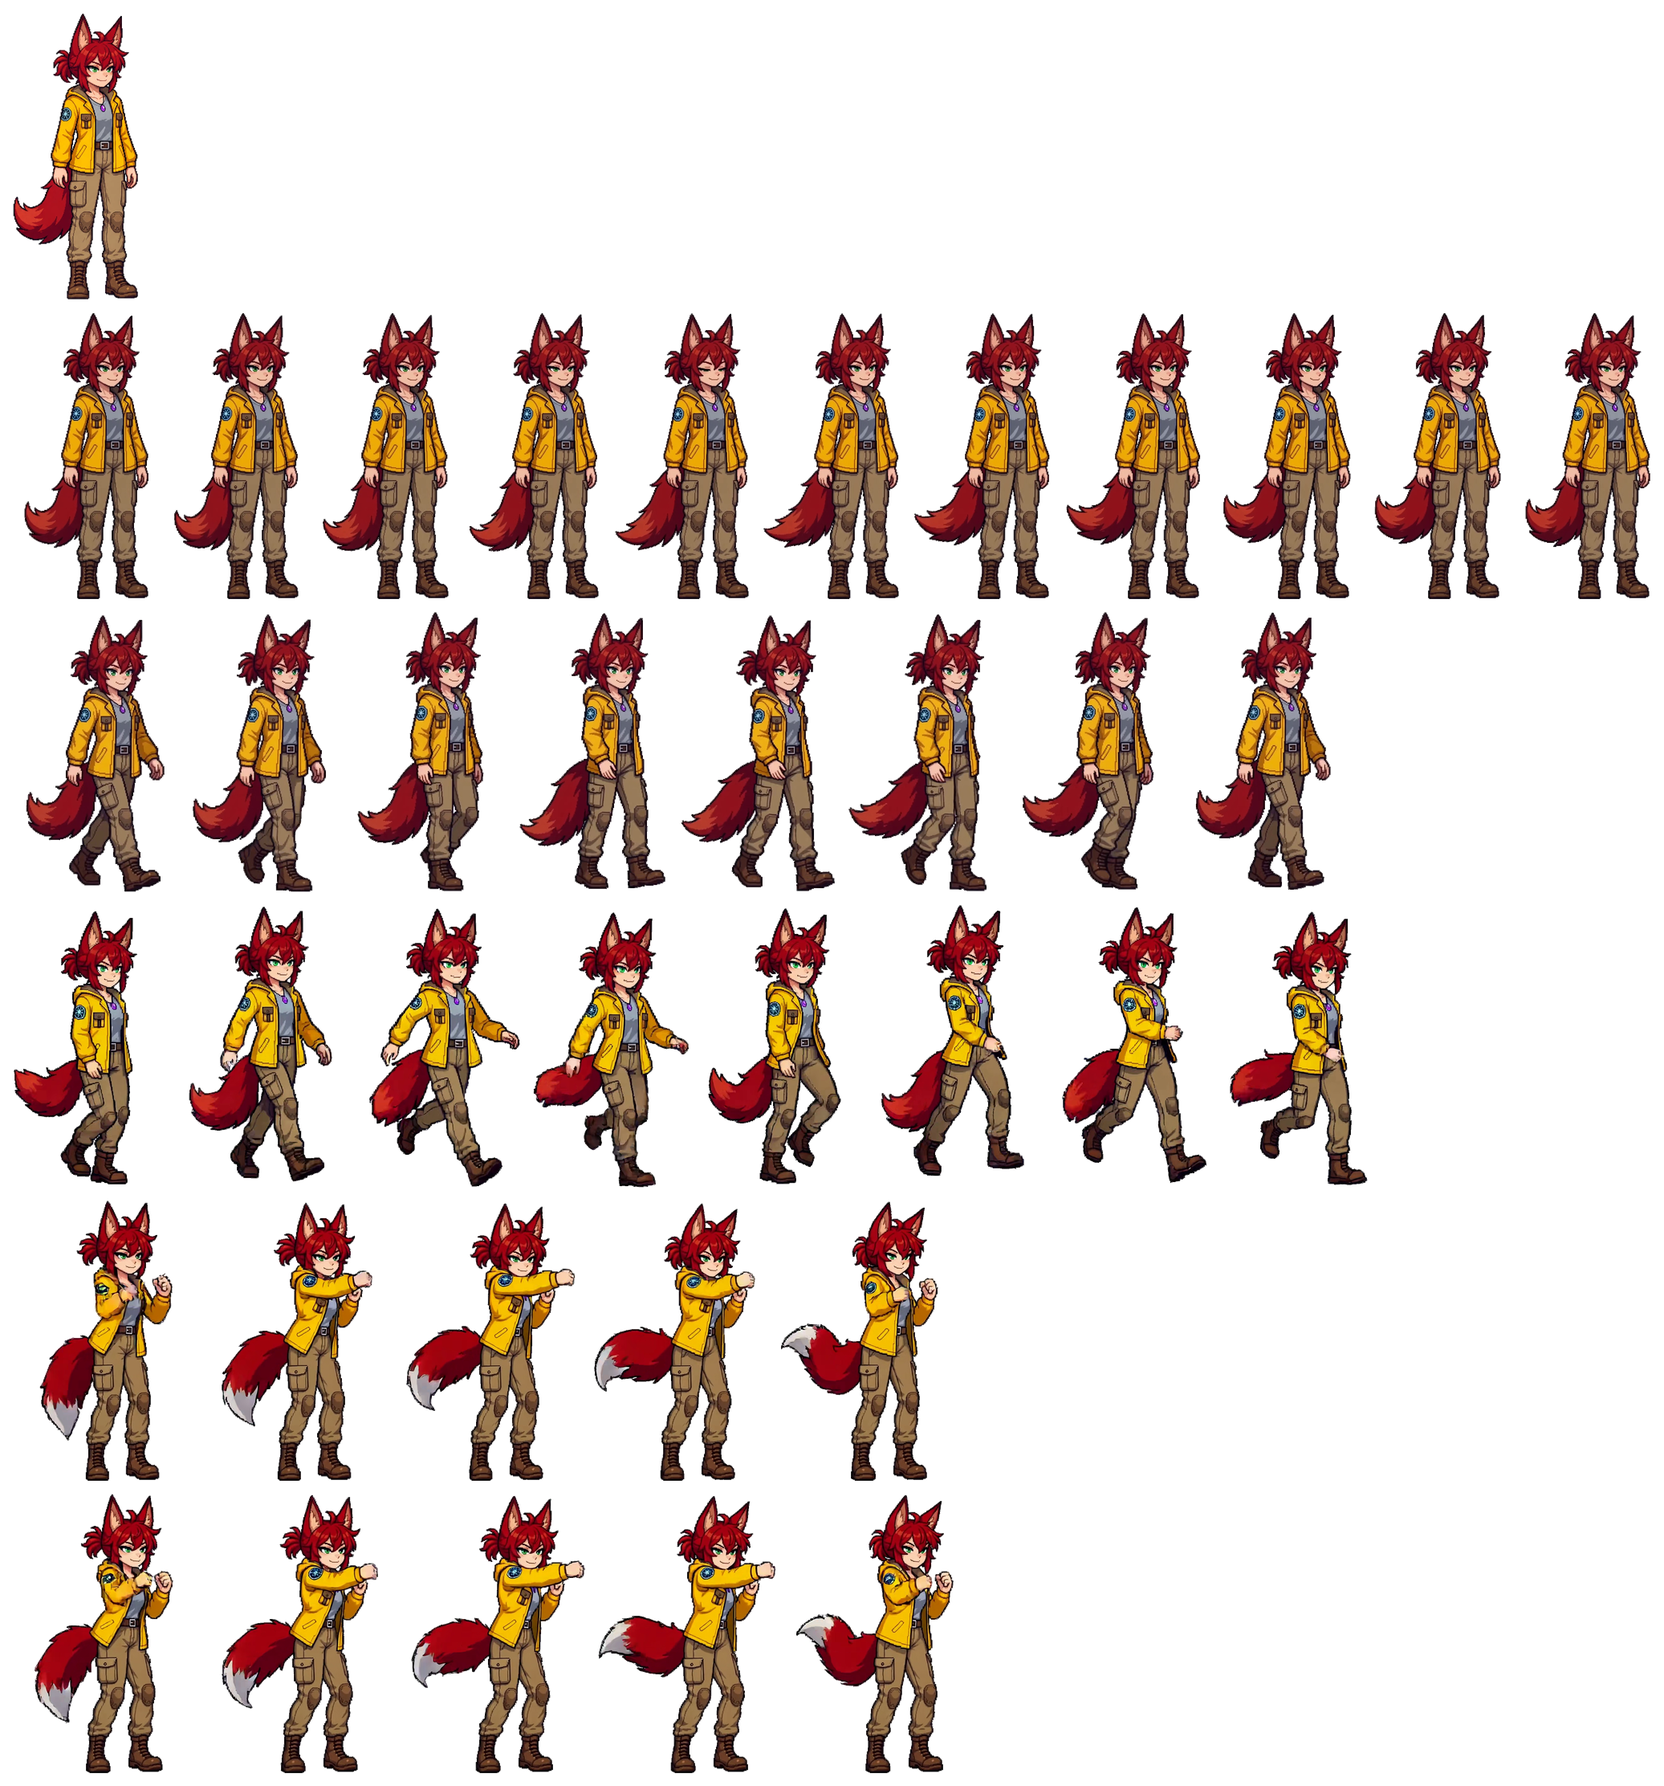
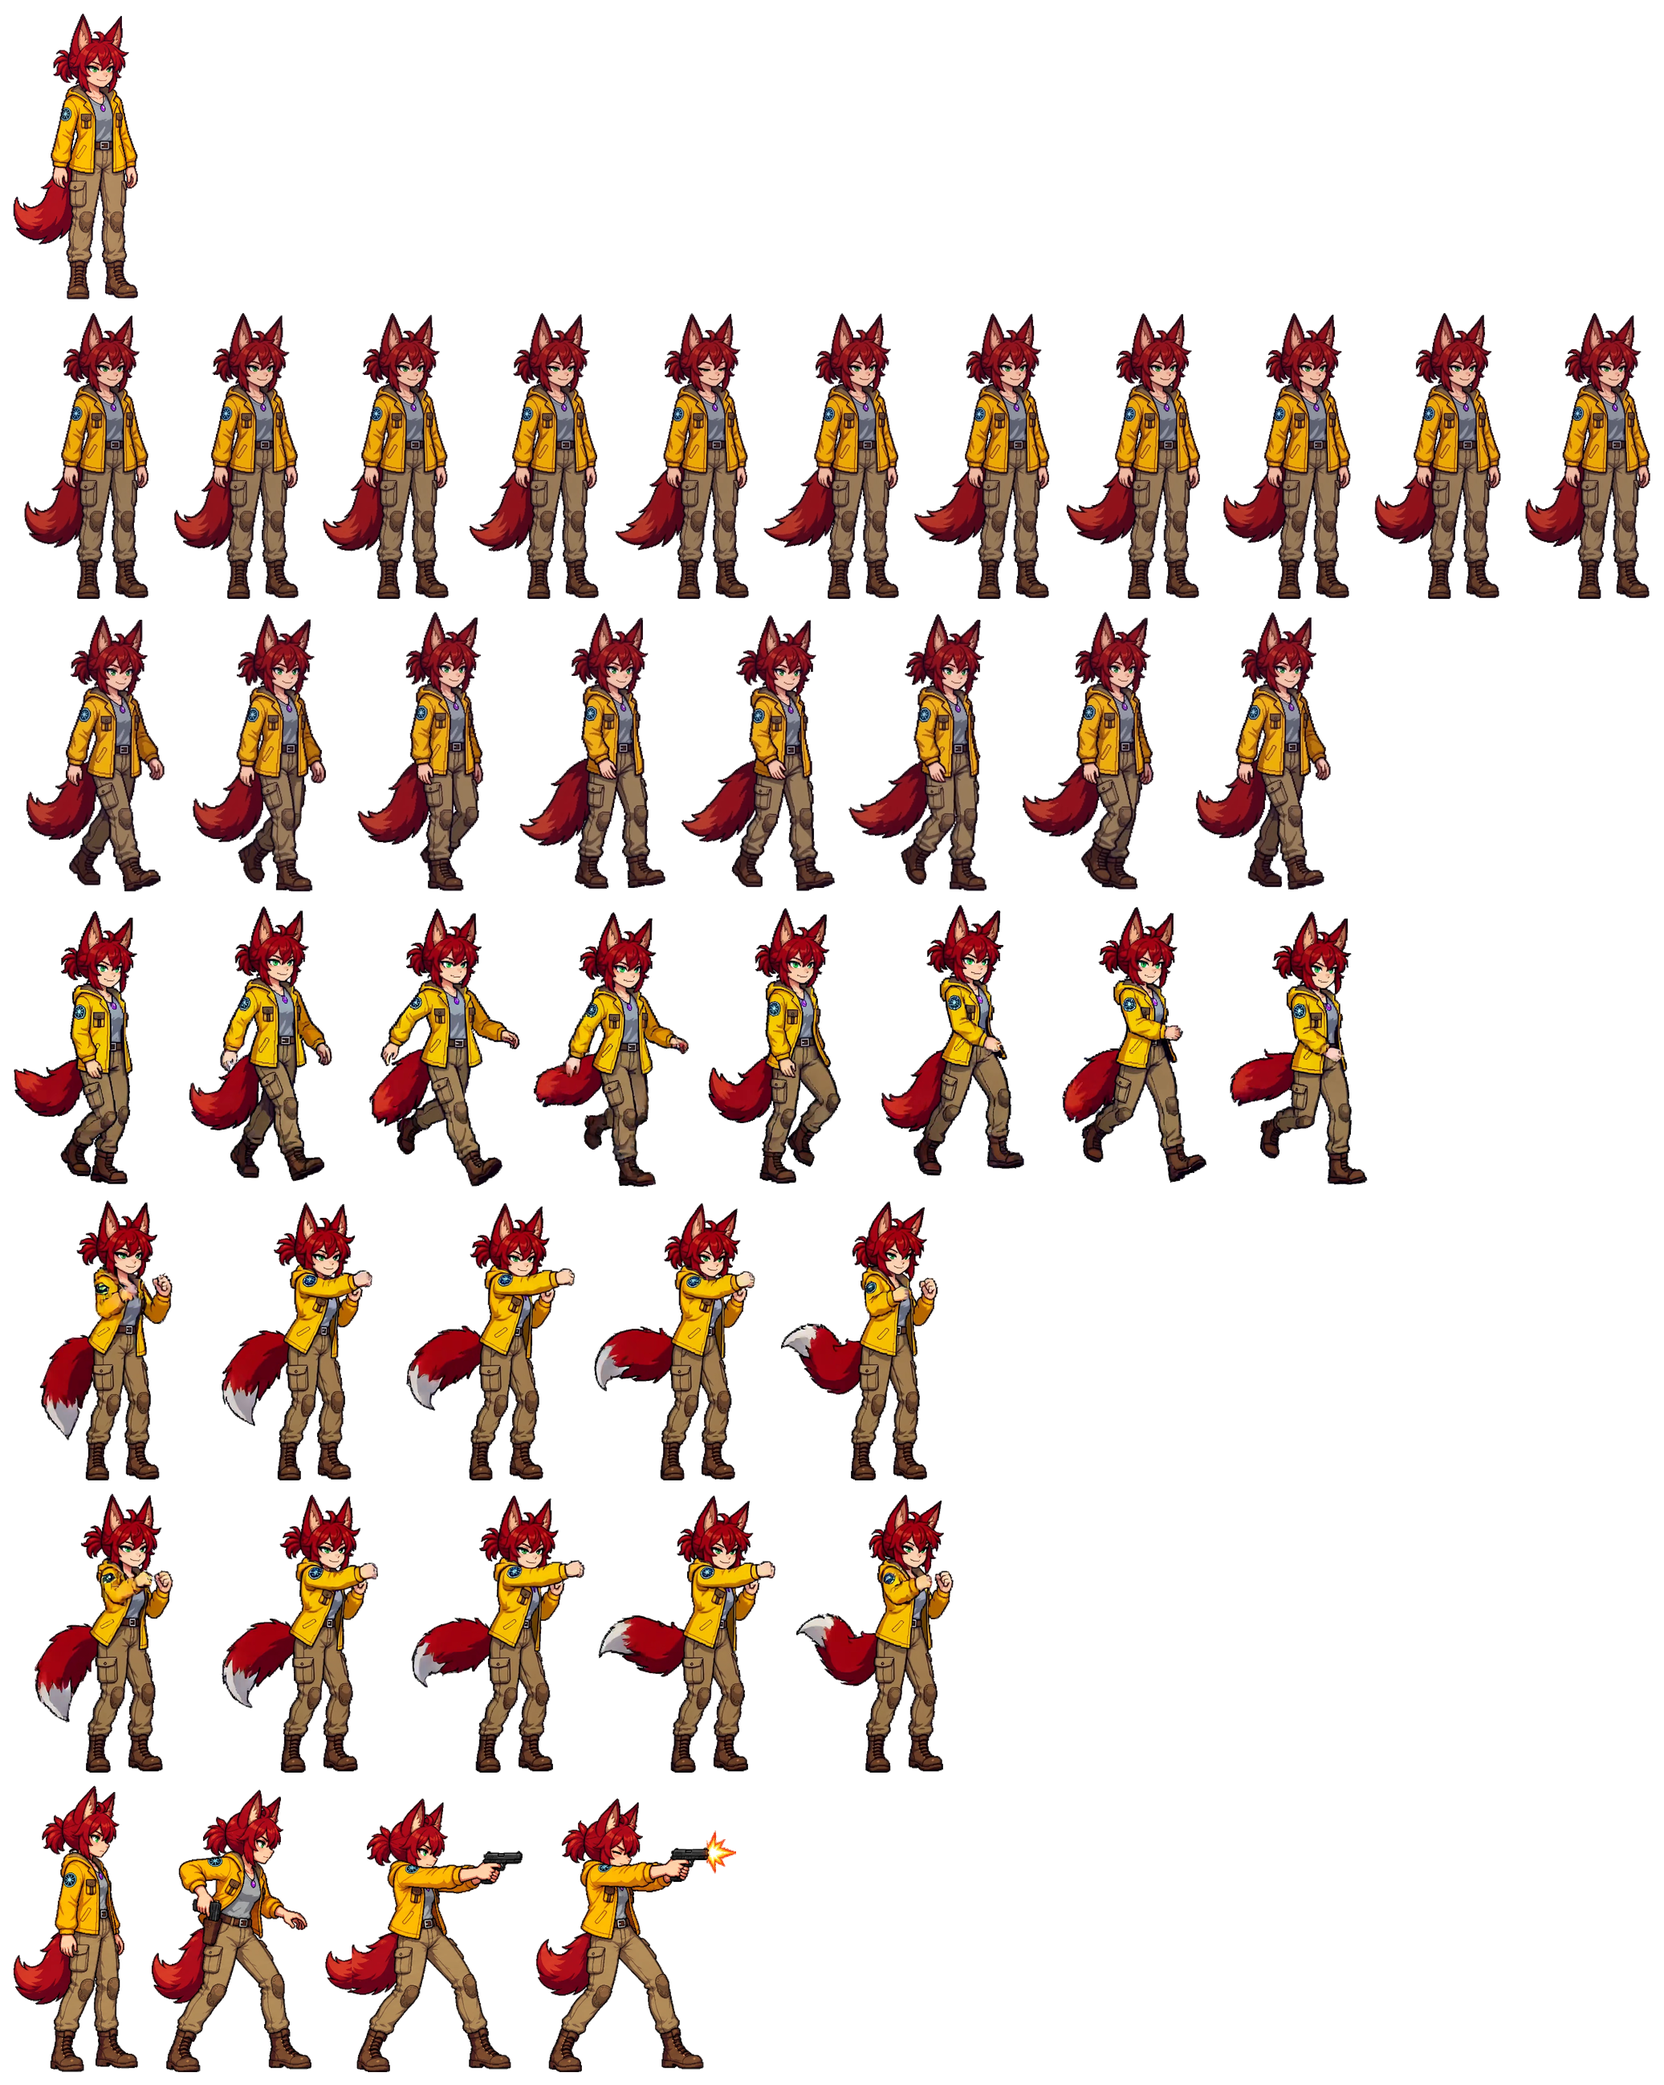
Lucy: pistol shot on K with a very fast bullet; tail tip grafted onto clipped panels
Claude-Session: https://claude.ai/code/session_01QGxdLhKA2G8rMSxu9wSSuC

diff --git a/src/world.js b/src/world.js
@@ -1,5 +1,6 @@
 // One simulation step: player, enemies, projectiles, pickups, debris, wave script.
 import {
+  BULLET,
   ACID,
   CHAIN_GAP,
   DYNAMITE,
@@ -227,6 +228,47 @@ export function update(dt) {
           col: '#f3eeda',
           life: 1.2,
         });
+    } else if (q.k === 'bullet') {
+      // Lucy's bullet: the first thing in its way takes it
+      for (const e of G.enemies.concat(G.props)) {
+        if (e.dead) continue;
+        const zone = e.T?.dragon
+          ? dragonZone(e, q.x - 20, q.x + 20, q.y, 22)
+          : Math.abs(e.x - q.x) < e.w + 20 && Math.abs(e.y - q.y) < 22 && e.z < 120
+            ? 'body'
+            : null;
+        if (zone) {
+          if (
+            hurtEnemy(
+              e,
+              BULLET.dmg * dmgMult() * headBonus(e, zone),
+              Math.sign(q.vx),
+              false,
+              'bone',
+            )
+          ) {
+            if (!e.isProp) {
+              addRage(RAGE.bone);
+              styleGain(8);
+            }
+            q.life = 0;
+            for (let k = 0; k < 6; k++)
+              G.parts.push({
+                k: 'dot',
+                x: q.x,
+                y: q.y - q.z,
+                vx: -Math.sign(q.vx) * rnd(40, 200),
+                vy: rnd(-160, 60),
+                g: 500,
+                t: 0,
+                life: 0.25,
+                s: 3,
+                col: '#ffe9a0',
+              });
+            break;
+          }
+        }
+      }
     } else if (q.k === 'hado') {
       if (random() < 0.9)
         G.parts.push({

diff --git a/tests/world.test.js b/tests/world.test.js
@@ -167,3 +167,39 @@ test('the idle loop: one atlas frame per held pose, the poses in order and round
   assert.equal(seen, IDLE_HOLD.length);
   assert.equal(idlePose(total / 24 + 0.01), 0, 'round again');
 });
+
+test('Lucy fires her pistol on K: a very fast bullet from the muzzle that hits the first enemy', async () => {
+  const { BULLET, D, BONE_COST } = await import('../src/config.js');
+  const { FR } = await import('../src/lucy-frames.js');
+  assert.equal(FR.throw.length, 4, 'side on, drawing, aiming, firing');
+  P.who = 'lucy';
+  P.rage = 100;
+  P.x = 300;
+  P.y = 450;
+  const props = G.props;
+  G.props = []; // nothing breakable in the line of fire
+  const e = spawn('fat', 1, 900, 450);
+  e.state = 'chase';
+  const hp = e.hp;
+  pressed.bone = true;
+  update(DT);
+  for (const k in pressed) delete pressed[k];
+  assert.equal(P.state, 'throw');
+  assert.equal(P.rage, 100 - BONE_COST);
+  const fire = D.gun.slice(0, 3).reduce((a, b) => a + b, 0);
+  let shot = null;
+  for (let t = 0; t < fire + 0.1 && !shot; t += DT) {
+    update(DT);
+    shot = G.projs.find((q) => q.k === 'bullet');
+  }
+  assert.ok(shot, 'a bullet');
+  assert.ok(Math.abs(shot.vx) >= 2000, 'very fast');
+  assert.equal(G.projs.filter((q) => q.k === 'bone').length, 0, 'no bone');
+  assert.ok(Math.abs(shot.x - (P.x + BULLET.x)) < 60, 'from the muzzle');
+  for (let i = 0; i < 0.35 / DT && e.hp === hp; i++) {
+    update(DT);
+  }
+  assert.ok(e.hp < hp, 'it reached an enemy 600 px away in a blink');
+  G.props = props;
+  P.who = 'raithwyn';
+});

diff --git a/src/render.js b/src/render.js
@@ -470,6 +470,24 @@ export function drawProj(q) {
     ctx.fill();
     return;
   }
+  if (q.k === 'bullet') {
+    // a streak of light along its path
+    const d = Math.sign(q.vx),
+      g = ctx.createLinearGradient(x - d * 70, y, x, y);
+    g.addColorStop(0, 'rgba(255,220,120,0)');
+    g.addColorStop(1, 'rgba(255,250,220,1)');
+    ctx.save();
+    ctx.globalCompositeOperation = 'lighter';
+    ctx.strokeStyle = g;
+    ctx.lineWidth = 3;
+    ctx.lineCap = 'round';
+    ctx.beginPath();
+    ctx.moveTo(x - d * 70, y);
+    ctx.lineTo(x, y);
+    ctx.stroke();
+    ctx.restore();
+    return;
+  }
   if (q.k === 'acid') {
     const r = 11 + Math.sin(G.time * 30) * 1.5;
     ctx.save();
@@ -832,7 +850,8 @@ export function drawWorld() {
       );
   for (const it of G.items) shadow(it.x, it.y, it.z, 12);
   for (const q of G.projs)
-    shadow(q.x, q.y, q.z, q.k === 'hado' ? 26 * q.lv : q.k === 'plasma' ? 20 : 10);
+    if (q.k !== 'bullet')
+      shadow(q.x, q.y, q.z, q.k === 'hado' ? 26 * q.lv : q.k === 'plasma' ? 20 : 10);
   if (G.state !== 'title') shadow(P.x, P.y, P.z, 40);
   const list = [];
   for (const d of G.debris) list.push([d.gy - 1, drawDebris, d]);

diff --git a/src/player.js b/src/player.js
@@ -1,6 +1,7 @@
 // Raithwyn: movement, combo, air punch, bone throw, hadouken, super attack, getting hit.
 import {
   BONE_COST,
+  BULLET,
   D,
   HADO,
   FIGHTER_ANIM,
@@ -247,13 +248,28 @@ export function updPlayer(dt) {
       break;
     }
     case 'throw': {
-      const i = tl(D.thr, p.t);
+      // Lucy draws her pistol and fires instead of throwing a bone
+      const gun = p.who === 'lucy',
+        i = tl(gun ? D.gun : D.thr, p.t);
       if (i < 0) {
         toIdle();
         break;
       }
       p.an = ['throw', i];
-      if (i >= 2 && !p.sw) {
+      if (gun && i >= 3 && !p.sw) {
+        p.sw = 1;
+        SFX.gun();
+        G.shake = Math.max(G.shake, 2);
+        G.projs.push({
+          k: 'bullet',
+          x: p.x + p.face * BULLET.x,
+          y: p.y,
+          z: BULLET.z,
+          vx: p.face * BULLET.speed,
+          rot: 0,
+          life: BULLET.life,
+        });
+      } else if (!gun && i >= 2 && !p.sw) {
         p.sw = 1;
         SFX.swing();
         G.projs.push({

diff --git a/src/config.js b/src/config.js
@@ -567,6 +567,8 @@ export const RUN_FRAME = 0.065 / 0.85;
 export const IDLE_HOLD = [5, 5, 5, 5, 5, 4, 5, 5, 5, 5, 5];
 // Each fighter's idle (poses held so many 1/24 s), walk and run (seconds a frame, frames).
 // Lucy's idle is 11 poses over the 2.6 s loop of her video.
+// Lucy's pistol shot: a bullet that flies very fast; it costs what a bone does.
+export const BULLET = { speed: 2400, dmg: 7, life: 0.45, x: 58, z: 136 };
 export const FIGHTER_ANIM = {
   raithwyn: { idle: IDLE_HOLD, walk: [0.085, 8], run: [RUN_FRAME, 6] },
   lucy: { idle: [6, 5, 6, 6, 5, 6, 5, 6, 6, 5, 6], walk: [0.1, 8], run: [0.065, 8] },
@@ -576,5 +578,7 @@ export const D = {
   atk1: [0.03, 0.05, 0.09, 0.06, 0.05],
   atk2: [0.04, 0.07, 0.12, 0.08, 0.07],
   thr: [0.05, 0.08, 0.09, 0.12],
+  // Lucy's pistol (K, in place of the bone): side on, drawing it, aiming, firing
+  gun: [0.05, 0.08, 0.07, 0.14],
   hado: [0.06, 0.09, 0.08, 0.08, 0.1, 0.1],
 };

diff --git a/src/lucy-frames.js b/src/lucy-frames.js
@@ -49,4 +49,10 @@ export const FR = {
     [233, 538, 114, 174, 69.0, 174.0],
     [349, 538, 114, 174, 69.0, 174.0],
   ],
+  throw: [
+    [465, 538, 79, 179, 51.0, 179.0],
+    [546, 538, 101, 179, 55.0, 179.0],
+    [649, 538, 124, 179, 68.0, 179.0],
+    [775, 538, 126, 179, 57.0, 179.0],
+  ],
 };

diff --git a/tools/lucy_sheet.py b/tools/lucy_sheet.py
@@ -3,7 +3,8 @@
 
     python3 tools/lucy_sheet.py      # then: npm run atlas
 
-The sources are in assets/source/lucy/: standing.png (one frame) and the videos idle.mp4,
+The sources are in assets/source/lucy/: standing.png (one frame), shoot.png (four panels:
+side on, drawing the pistol, aiming, firing) and the videos idle.mp4,
 walk.mp4, run.mp4 and strike_1.mp4 (she raises her guard and jabs again and again); each
 video is shot from a fixed camera with her in place. Every picture is cut out of its white
 background (from the edges inwards, keeping only the figure, so the watermark goes too) and
@@ -40,7 +41,11 @@ ANIMS = {
     "punch1": ("strike_1.mp4", [34, 36, 38, 40, 43]),
     "punch2": ("strike_1.mp4", [58, 60, 62, 64, 67]),
 }
-ROWS = ["stand", "idle", "walk", "run", "punch1", "punch2"]
+ROWS = ["stand", "idle", "walk", "run", "punch1", "punch2", "throw"]
+# the pistol shot (the game's "throw" slot, K): the four panels of shoot.png, left to right
+PANELS = [(0, 347), (353, 767), (772, 1205), (1210, 1680)]
+# rows whose frames come from separate pictures: each frame its own window and anchor
+APART = {"stand", "throw"}
 
 
 def flood(mask, seeds):
@@ -121,6 +126,34 @@ def video_frames(path):
     return lambda i: Image.open(f"{tmp}/f{i:03d}.png")
 
 
+def mend_tail(f, tpl, pad):
+    """Puts back the tip of the tail where the picture's left edge cut it off: the tip of `tpl`
+    (the same drawing, its tail whole), as many columns of it as it takes to be as tall as the
+    cut, stretched to the cut. Both have `pad` empty columns added on the left."""
+    a, t = f[..., 3] > 128, tpl[..., 3] > 128
+    h = f.shape[0]
+    low = slice(h // 3, h)  # the tail hangs in the lower two thirds
+
+    def span(m, x):
+        r = np.where(m[low, x])[0] + h // 3
+        return (r.min(), r.max()) if len(r) else None
+
+    cut = span(a, pad)
+    if not cut or cut[1] - cut[0] < 6:
+        return f
+    tip = np.where(t[low].any(0))[0].min()
+    ca, cb = cut
+    n = next((k for k in range(1, pad) if (s := span(t, tip + k)) and s[1] - s[0] >= cb - ca), pad - 1)
+    ta, tb = span(t, tip + n)
+    out = f.copy()
+    for j in range(n):
+        for yd in range(max(0, ca - 60), min(h, cb + 61)):
+            y = int(round(ta + (yd - ca) * (tb - ta) / max(1, cb - ca)))
+            if 0 <= y < h and tpl[y, tip + j, 3] > 0:
+                out[yd, pad - n + j] = tpl[y, tip + j]
+    return out
+
+
 def boots_x(f):
     """The middle of her boots: the lowest tenth of the figure."""
     ys = np.where(f[..., 3].any(1))[0]
@@ -142,26 +175,47 @@ def main():
     s = TALL / height(cut(vid("idle.mp4")(1)))
     for name, (video, picks) in ANIMS.items():
         rows[name] = [scaled(cut(vid(video)(i)), s) for i in picks]
+    # the shot: four panels of one drawing, one scale (from the first, where she stands upright);
+    # the panels' left edges cut the tail off in the last two, so its tip is put back
+    sheet_img = Image.open(SRC / "shoot.png").convert("RGB")
+    pad = 160
+    panels = []
+    for x0, x1 in PANELS:
+        p = cut(sheet_img.crop((x0, 0, x1, sheet_img.height)))
+        panels.append(np.pad(p, ((0, 0), (pad, 0), (0, 0))))
+    panels = [panels[0]] + [mend_tail(p, panels[0], pad) for p in panels[1:]]
+    sp = TALL / height(panels[0])
+    rows["throw"] = [scaled(p, sp) for p in panels]
     # every animation: one window round all its frames, its anchor the boots' average middle
     sheet_rows, table = [], {}
     for name in ROWS:
         fr = rows[name]
+        if name in APART:
+            # separate pictures: each cropped to itself, anchored by its own boots
+            cs, axs = [], []
+            for f in fr:
+                ys, xs = np.where(f[..., 3] > 10)
+                cs.append(f[ys.min() : ys.max() + 1, xs.min() : xs.max() + 1])
+                axs.append(boots_x(f) - xs.min())
+            sheet_rows.append((name, cs, axs))
+            continue
         al = np.stack([f[..., 3] > 10 for f in fr]).any(0)
         ys, xs = np.where(al)
         y0, y1, x0, x1 = ys.min(), ys.max() + 1, xs.min(), xs.max() + 1
         ax = float(np.mean([boots_x(f) for f in fr])) - x0
-        sheet_rows.append((name, [f[y0:y1, x0:x1] for f in fr], ax))
+        sheet_rows.append((name, [f[y0:y1, x0:x1] for f in fr], [ax] * len(fr)))
     W = 16 + max(sum(f.shape[1] + 16 for f in r) for _, r, _ in sheet_rows)
-    H = 16 + sum(r[0].shape[0] + 16 for _, r, _ in sheet_rows)
+    H = 16 + sum(max(f.shape[0] for f in r) + 16 for _, r, _ in sheet_rows)
     sheet = Image.new("RGBA", (W, H))
     y = 16
-    for name, r, ax in sheet_rows:
+    for name, r, axs in sheet_rows:
         x = 16
-        h = r[0].shape[0]
+        h = max(f.shape[0] for f in r)
         table[name] = []
-        for f in r:
-            sheet.alpha_composite(Image.fromarray(f, "RGBA"), (x, y))
-            table[name].append([x, y, x + f.shape[1], y + h, round(ax, 1), h])
+        for f, ax in zip(r, axs):
+            # boots on the row's bottom line
+            sheet.alpha_composite(Image.fromarray(f, "RGBA"), (x, y + h - f.shape[0]))
+            table[name].append([x, y, x + f.shape[1], y + h, round(float(ax), 1), h])
             x += f.shape[1] + 16
         y += h + 16
     sheet.save(ROOT / "assets/source/lucy_sheet.png", optimize=True)

diff --git a/README.md b/README.md
@@ -14,8 +14,10 @@ settings and remembered by the browser.
 After the splash screen comes the main menu: Start game, Settings, Exit. Before the fight there
 is the fighter select: four portraits (Raithwyn, Lucy, Tiger man, Gumdong) and four locked slots.
 Every fighter has a description and stats. Raithwyn and Lucy are playable (Lucy for testing:
-she has her own sprites for standing, idle, walking, running and two jabs, every other animation
-shows her standing frame, and she plays with Raithwyn's moves for now); the others can be looked at. The fighter
+she has her own sprites for standing, idle, walking, running, two jabs and a pistol shot, every
+other animation shows her standing frame, and she plays with Raithwyn's moves for now; on `K` she
+draws her pistol and fires instead of throwing a bone: the same 15 rage, 7 damage, and the bullet
+flies at 2400 px/s and hits the first enemy or barrel in its way, `BULLET` in `src/config.js`); the others can be looked at. The fighter
 chosen goes into the run's replay.
 
 The game is written in plain JavaScript and Canvas 2D, with no engine and no runtime
@@ -47,7 +49,7 @@ npm run build      # dist/raithwyn.html — opens from disk, works offline
 | Punch (a three-hit chain; in the air, a flying kick) | `J` |
 | Launcher: the third hit of the chain with "up" held throws the enemy up for juggling | `W` + `J` |
 | Jump | `Space` |
-| Throw a bone (costs 15 rage, 5% of the bar) | `K` |
+| Throw a bone; Lucy fires her pistol (costs 15 rage, 5% of the bar) | `K` |
 | Dark ball (level I) | `L` |
 | Super attack: hold for 1 s with a full rage bar, hits everyone on screen | hold `I` |
 | Pause menu (resume, settings, main menu) / sound | `Esc` or `P` / `M` |
@@ -544,7 +546,9 @@ background shut in between her legs or tail are cut out as well), scaled to Rait
 cut with one window, so they keep their places from the video and do not jitter. Rows: `stand`
 (standing.png), `idle` (11 poses over the 2.6 s loop of idle.mp4), `walk` and `run` (8 frames
 over a 1 s loop of walk.mp4 and run.mp4), `punch1` and `punch2` (two jabs from strike_1.mp4;
-the video frames are in `ANIMS`). The frames and their anchors go to
+the video frames are in `ANIMS`) and `throw` (the four panels of shoot.png: side on, drawing,
+aiming, firing; her tail is cut off at the picture's left edge in the last two, so its tip is
+grafted on from the first panel, `mend_tail`). The frames and their anchors go to
 `assets/source/lucy_sheet.json`, and `npm run atlas` builds `assets/lucy.png` and
 `src/lucy-frames.js` from them (`FIGHTERS` in `tools/build_atlas.py`). How fast her idle, walk
 and run play is in `FIGHTER_ANIM` in `src/config.js`. An animation she does not have yet shows
